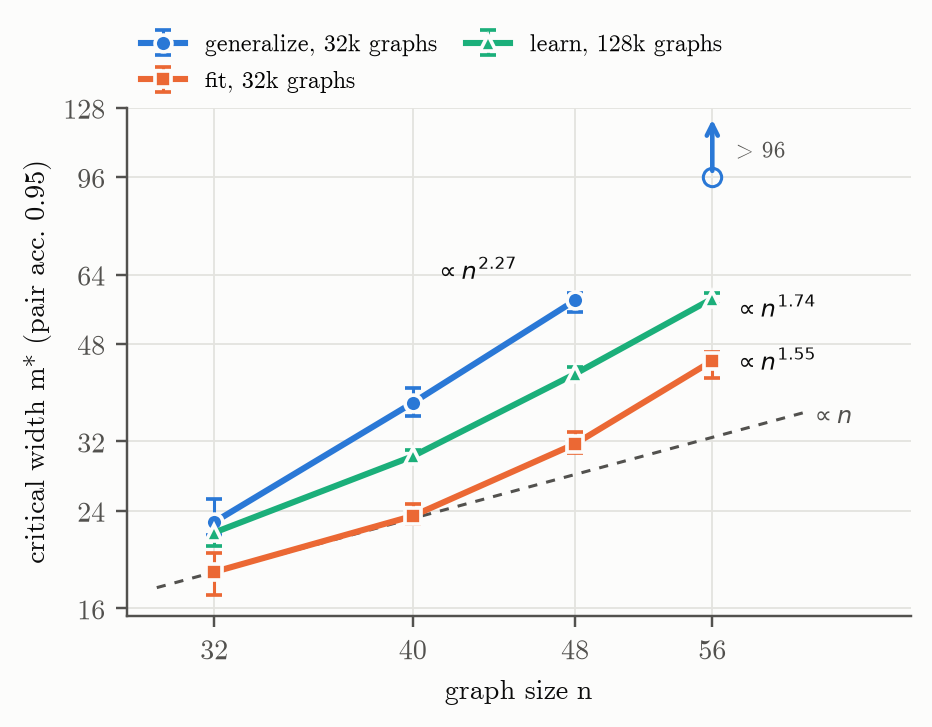
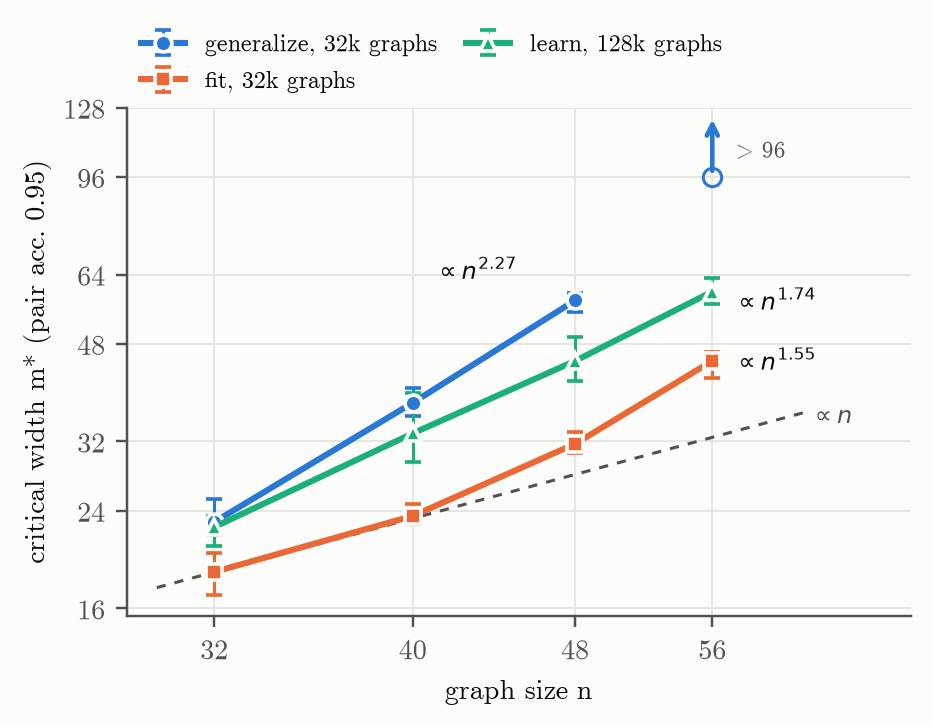
thesis: bump (third seed); figures regenerated with 3 seeds

Changed region(s): [[0.2178, 0.3631, 0.8712, 0.7565]]

diff --git a/reports/figures/width_progress_plots.py b/reports/figures/width_progress_plots.py
@@ -347,7 +347,7 @@ def fig_encodings():
         pts = []
         for n in sorted({r["config"]["n"] for r in runs}):
             per = seed_crossings(runs, n, None, "test_pair", "final")
-            if len(per) == 2 and not np.isnan(per).any():   # both seeds cross
+            if len(per) >= 2 and not np.isnan(per).any():   # every seed crosses
                 pts.append((n, np.mean(per), min(per), max(per)))
         x, y, lo, hi = map(np.array, zip(*pts))
         ax.errorbar(x, y, yerr=[y - lo, hi - y], color=SERIES[i], marker=MARKERS[i],
